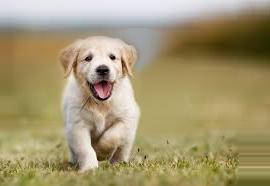
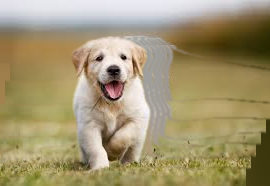
slughtly better 3d

diff --git a/stereo.py b/stereo.py
@@ -2,62 +2,60 @@ import cv2
 import numpy as np
 
 
-def _make_foreground_mask(depth_map: np.ndarray) -> np.ndarray:
-    """Create a soft foreground mask from the depth map using Otsu thresholding."""
-    _, binary = cv2.threshold(depth_map, 0, 255, cv2.THRESH_BINARY + cv2.THRESH_OTSU)
+def _prepare_layers(image_bgr: np.ndarray, depth_map: np.ndarray, num_layers: int = 8) -> dict:
+    """Prepare a background plate and depth-sorted layers for compositing."""
+    h, w = image_bgr.shape[:2]
     kernel = cv2.getStructuringElement(cv2.MORPH_ELLIPSE, (15, 15))
-    binary = cv2.morphologyEx(binary, cv2.MORPH_CLOSE, kernel)
-    binary = cv2.morphologyEx(binary, cv2.MORPH_OPEN, kernel)
-    soft = cv2.GaussianBlur(binary, (21, 21), 0)
-    return soft.astype(np.float32) / 255.0
 
+    all_fg_mask = (depth_map > np.percentile(depth_map, 25)).astype(np.uint8) * 255
+    all_fg_mask = cv2.dilate(all_fg_mask, kernel)
+    bg_plate = cv2.inpaint(image_bgr, all_fg_mask, inpaintRadius=10, flags=cv2.INPAINT_TELEA)
 
-def _inpaint_background(image_bgr: np.ndarray, mask_float: np.ndarray) -> np.ndarray:
-    """Fill in the foreground region to create a clean background plate."""
-    inpaint_mask = (mask_float > 0.5).astype(np.uint8) * 255
-    kernel = cv2.getStructuringElement(cv2.MORPH_ELLIPSE, (20, 20))
-    inpaint_mask = cv2.dilate(inpaint_mask, kernel)
-    return cv2.inpaint(image_bgr, inpaint_mask, inpaintRadius=10, flags=cv2.INPAINT_TELEA)
+    thresholds = np.linspace(0, 256, num_layers + 1)
+    layers = []
+    for i in range(num_layers):
+        lo, hi = thresholds[i], thresholds[i + 1]
+        mask = ((depth_map >= lo) & (depth_map < hi)).astype(np.float32)
+        mask = cv2.GaussianBlur(mask, (5, 5), 0)
+        mid_depth = (lo + hi) / 2.0 / 255.0
+        layers.append({"mask": mask, "depth": mid_depth})
 
-
-def _shift_layer(layer: np.ndarray, dx: int) -> np.ndarray:
-    """Translate a layer horizontally by dx pixels."""
-    M = np.float32([[1, 0, dx], [0, 1, 0]])
-    return cv2.warpAffine(layer, M, (layer.shape[1], layer.shape[0]), borderMode=cv2.BORDER_REPLICATE)
+    median_depth = np.median(depth_map.astype(np.float32)) / 255.0
+    return {"bg_plate": bg_plate, "layers": layers, "median_depth": median_depth}
 
 
 def generate_shifted_view(
-    image_bgr: np.ndarray, depth_map: np.ndarray, shift_fraction: float, max_shift: int = 30,
+    image_bgr: np.ndarray, depth_map: np.ndarray, shift_fraction: float, max_shift: int = 20,
     _cache: dict | None = None,
 ) -> np.ndarray:
-    """Generate a shifted view using layer-based compositing.
-
-    Foreground and background are separated, shifted in opposite directions, then composited.
-    """
-    if _cache is not None and "fg_mask" in _cache:
-        fg_mask = _cache["fg_mask"]
-        bg_plate = _cache["bg_plate"]
+    """Generate a novel view using multi-plane compositing over a clean background."""
+    if _cache is not None and "data" in _cache:
+        data = _cache["data"]
     else:
-        fg_mask = _make_foreground_mask(depth_map)
-        bg_plate = _inpaint_background(image_bgr, fg_mask)
+        data = _prepare_layers(image_bgr, depth_map)
         if _cache is not None:
-            _cache["fg_mask"] = fg_mask
-            _cache["bg_plate"] = bg_plate
+            _cache["data"] = data
 
-    fg_shift = int(max_shift * shift_fraction)
-    bg_shift = int(-max_shift * 0.3 * shift_fraction)
+    h, w = image_bgr.shape[:2]
+    median = data["median_depth"]
 
-    bg_shifted = _shift_layer(bg_plate, bg_shift)
-    fg_shifted = _shift_layer(image_bgr, fg_shift)
-    mask_shifted = _shift_layer((fg_mask * 255).astype(np.uint8), fg_shift).astype(np.float32) / 255.0
+    bg_shift = int((0 - median) * max_shift * shift_fraction * 2)
+    M_bg = np.float32([[1, 0, bg_shift], [0, 1, 0]])
+    result = cv2.warpAffine(data["bg_plate"], M_bg, (w, h), borderMode=cv2.BORDER_REPLICATE).astype(np.float32)
 
-    mask_3ch = np.stack([mask_shifted] * 3, axis=-1)
-    composite = (fg_shifted.astype(np.float32) * mask_3ch + bg_shifted.astype(np.float32) * (1 - mask_3ch))
-    return composite.astype(np.uint8)
+    for layer in data["layers"]:
+        shift_px = int((layer["depth"] - median) * max_shift * shift_fraction * 2)
+        M = np.float32([[1, 0, shift_px], [0, 1, 0]])
+        shifted_img = cv2.warpAffine(image_bgr, M, (w, h), borderMode=cv2.BORDER_REPLICATE).astype(np.float32)
+        shifted_mask = cv2.warpAffine(layer["mask"], M, (w, h), borderMode=cv2.BORDER_CONSTANT)
+        alpha = np.stack([shifted_mask] * 3, axis=-1)
+        result = result * (1 - alpha) + shifted_img * alpha
+
+    return result.astype(np.uint8)
 
 
 def generate_stereo_pair(
-    image_bgr: np.ndarray, depth_map: np.ndarray, max_shift: int = 30
+    image_bgr: np.ndarray, depth_map: np.ndarray, max_shift: int = 20
 ) -> tuple[np.ndarray, np.ndarray]:
     """Generate left and right eye views."""
     cache = {}

diff --git a/main.py b/main.py
@@ -52,7 +52,7 @@ def main():
         "--output-dir", "-o", default="output", help="Output directory (default: output)"
     )
     parser.add_argument(
-        "--max-shift", type=int, default=30, help="Max parallax shift in pixels (default: 30)"
+        "--max-shift", type=int, default=20, help="Max parallax shift in pixels (default: 20)"
     )
     parser.add_argument(
         "--gif-speed", type=int, default=80, help="GIF frame duration in ms (default: 80)"